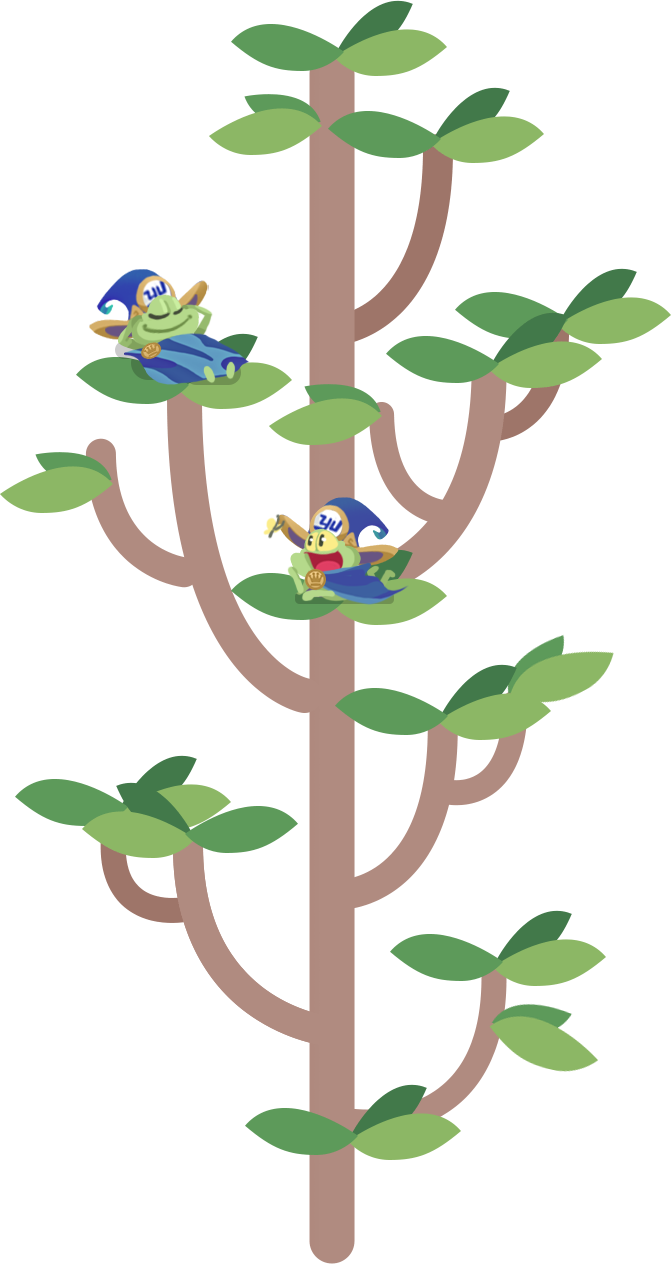
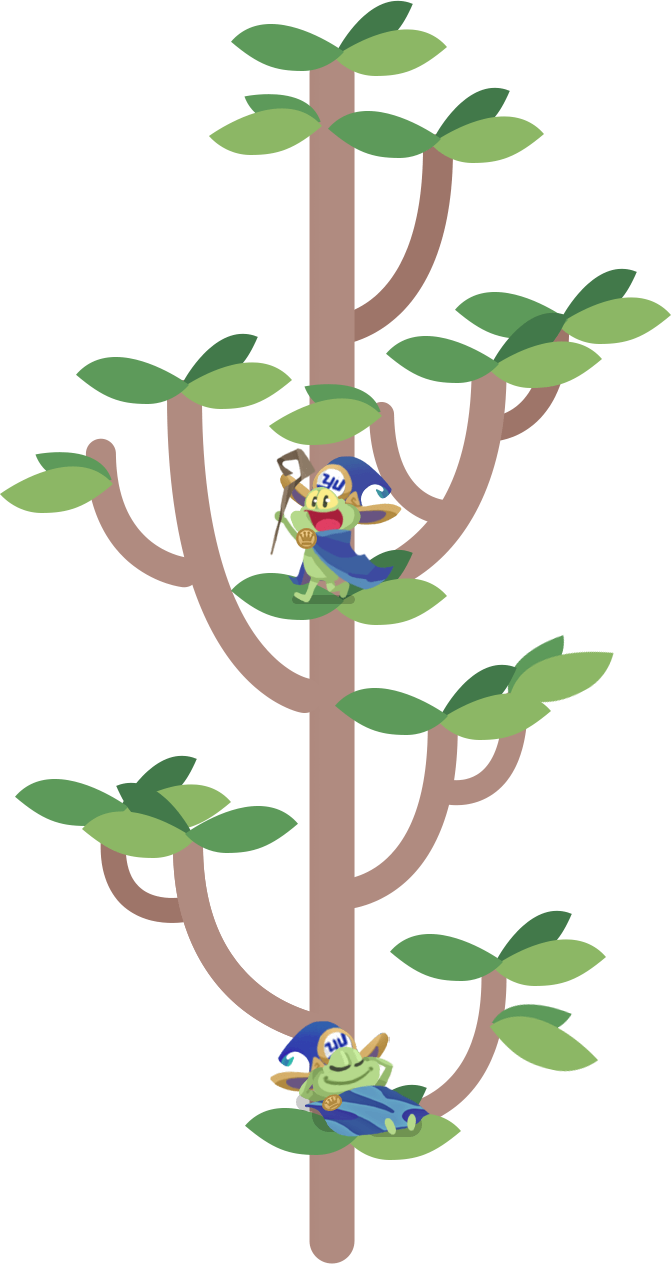
KILROY

Changed region(s): [[0.3875, 0.3394, 0.5961, 0.4937], [0.3875, 0.8022, 0.6557, 0.9256], [0.1192, 0.216, 0.3577, 0.3085]]

diff --git a/_KilroyProject/_Project/_Demo/Web/application/module/PlantTree/index.ts b/_KilroyProject/_Project/_Demo/Web/application/module/PlantTree/index.ts
@@ -13,7 +13,15 @@ import '../../../resource/css/PlantTree/index.less';
  */
 export default class Index implements _Stage {
     private readonly template: any = { // 模板对象
-        main: `<div id="box_tree" class="box_tree"></div>
+        main: `<div id="box_tree" class="box_tree">
+<!--                <div class="tree tree_t">-->
+<!--                    <div class="box_user u"><i></i></div>-->
+<!--                    <div class="box_user u"><i></i></div>-->
+<!--                    <div class="box_user u"><i></i></div>-->
+<!--                    <div class="box_user u"><i></i></div>-->
+<!--                    <div class="box_user u"><i></i></div>-->
+<!--                </div>-->
+            </div>
             <div id="box_progress" class="box_progress">
                 <div class="progress_bar">
                     <i></i><div class="text t_1"><span>0 / 0</span></div>
@@ -86,23 +94,23 @@ export default class Index implements _Stage {
         Global.Adaptation.openRem();
         
         _this.create();
-    
+        
         // 平台
         Platform.updateDataCB = () => { // 平台更新数据回调
             const token = _this.userData.token;
-        
+            
             _this.userData.token = Platform.data.token;
             _this.platformData.version = Platform.data.version;
             _this.platformData.system = Platform.data.platform;
-        
+            
             if (_this.userData.token !== token) Global.Window.location.reload();
         };
-        Platform.shareCB = ()=>{ // 平台分享回调
+        Platform.shareCB = () => { // 平台分享回调
             AnalysysAgent.track('worldtree_share', {
                 user_id: String(_this.userData.id)
             });
         }
-    
+        
         // 统计
         AnalysysAgent.init({
             appkey: '01cfd55a0542cd89',
@@ -120,6 +128,7 @@ export default class Index implements _Stage {
         
         if (_this.userData.token === '') { // 未登录
             Global.Dom.innerHTML = _this.template.login;
+            // Global.Dom.innerHTML = _this.template.main;
         } else { // 已登录
             Global.Dom.innerHTML = _this.template.main;
             
@@ -254,7 +263,7 @@ export default class Index implements _Stage {
         $tree.empty();
         
         for (let i = 0, ii = 0, n = _this.treeList.length; i < n; i++, ii += 5) {
-            const tree = Global.$(`<div class="tree tree_${ _this.treeList[i] }"></div`),
+            const tree = Global.$(`<div class="tree tree_${ _this.treeList[i] }"></div>`),
                 userList = _this.rankList.slice(ii, ii + 5);
             
             userList.forEach((v, iii) => {
@@ -447,7 +456,7 @@ export default class Index implements _Stage {
                 _this.getInfo();
                 
                 _this.waterAnimation();
-    
+                
                 AnalysysAgent.track('worldtree_plant', {
                     user_id: String(_this.userData.id),
                     today_total: data.today_exp

diff --git a/_KilroyProject/_Project/_Demo/Web/resource/css/PlantTree/index.less b/_KilroyProject/_Project/_Demo/Web/resource/css/PlantTree/index.less
@@ -503,23 +503,23 @@ body {
       }
 
       .box_user:nth-child(1) {
-        .transform(translate(0*@px, 0*@px));
+        .transform(translate(-220*@px, 250*@px));
       }
 
       .box_user:nth-child(2) {
-        .transform(translate(0*@px, 0*@px));
+        .transform(translate(150*@px, 320*@px));
       }
 
       .box_user:nth-child(3) {
-        .transform(translate(0*@px, 0*@px));
+        .transform(translate(-150*@px, 520*@px));
       }
 
       .box_user:nth-child(4) {
-        .transform(translate(0*@px, 0*@px));
+        .transform(translate(230*@px, 720*@px));
       }
 
       .box_user:nth-child(5) {
-        .transform(translate(0*@px, 0*@px));
+        .transform(translate(-180*@px, 900*@px));
       }
     }
 
@@ -534,23 +534,23 @@ body {
       }
 
       .box_user:nth-child(1) {
-        .transform(translate(0*@px, 0*@px));
+        .transform(translate(200*@px, 230*@px));
       }
 
       .box_user:nth-child(2) {
-        .transform(translate(0*@px, 0*@px));
+        .transform(translate(-160*@px, 550*@px));
       }
 
       .box_user:nth-child(3) {
-        .transform(translate(0*@px, 0*@px));
+        .transform(translate(250*@px, 680*@px));
       }
 
       .box_user:nth-child(4) {
-        .transform(translate(0*@px, 0*@px));
+        .transform(translate(180*@px, 920*@px));
       }
 
       .box_user:nth-child(5) {
-        .transform(translate(0*@px, 0*@px));
+        .transform(translate(260*@px, 1020*@px));
       }
     }
   }

diff --git a/_KilroyProject/_Project/_Demo/Web/application/constant/stage.ts b/_KilroyProject/_Project/_Demo/Web/application/constant/stage.ts
@@ -1,6 +1,6 @@
 // import GlobalStage from '../module/Particle/stage'; // 粒子
-// import GlobalStage from '../module/PlantTree/index'; // 旅法师营地-植树节活动-首页
-import GlobalStage from '../module/PlantTree/share'; // 旅法师营地-植树节活动-分享页
+import GlobalStage from '../module/PlantTree/index'; // 旅法师营地-植树节活动-首页
+// import GlobalStage from '../module/PlantTree/share'; // 旅法师营地-植树节活动-分享页
 
 /**
  * 场景
